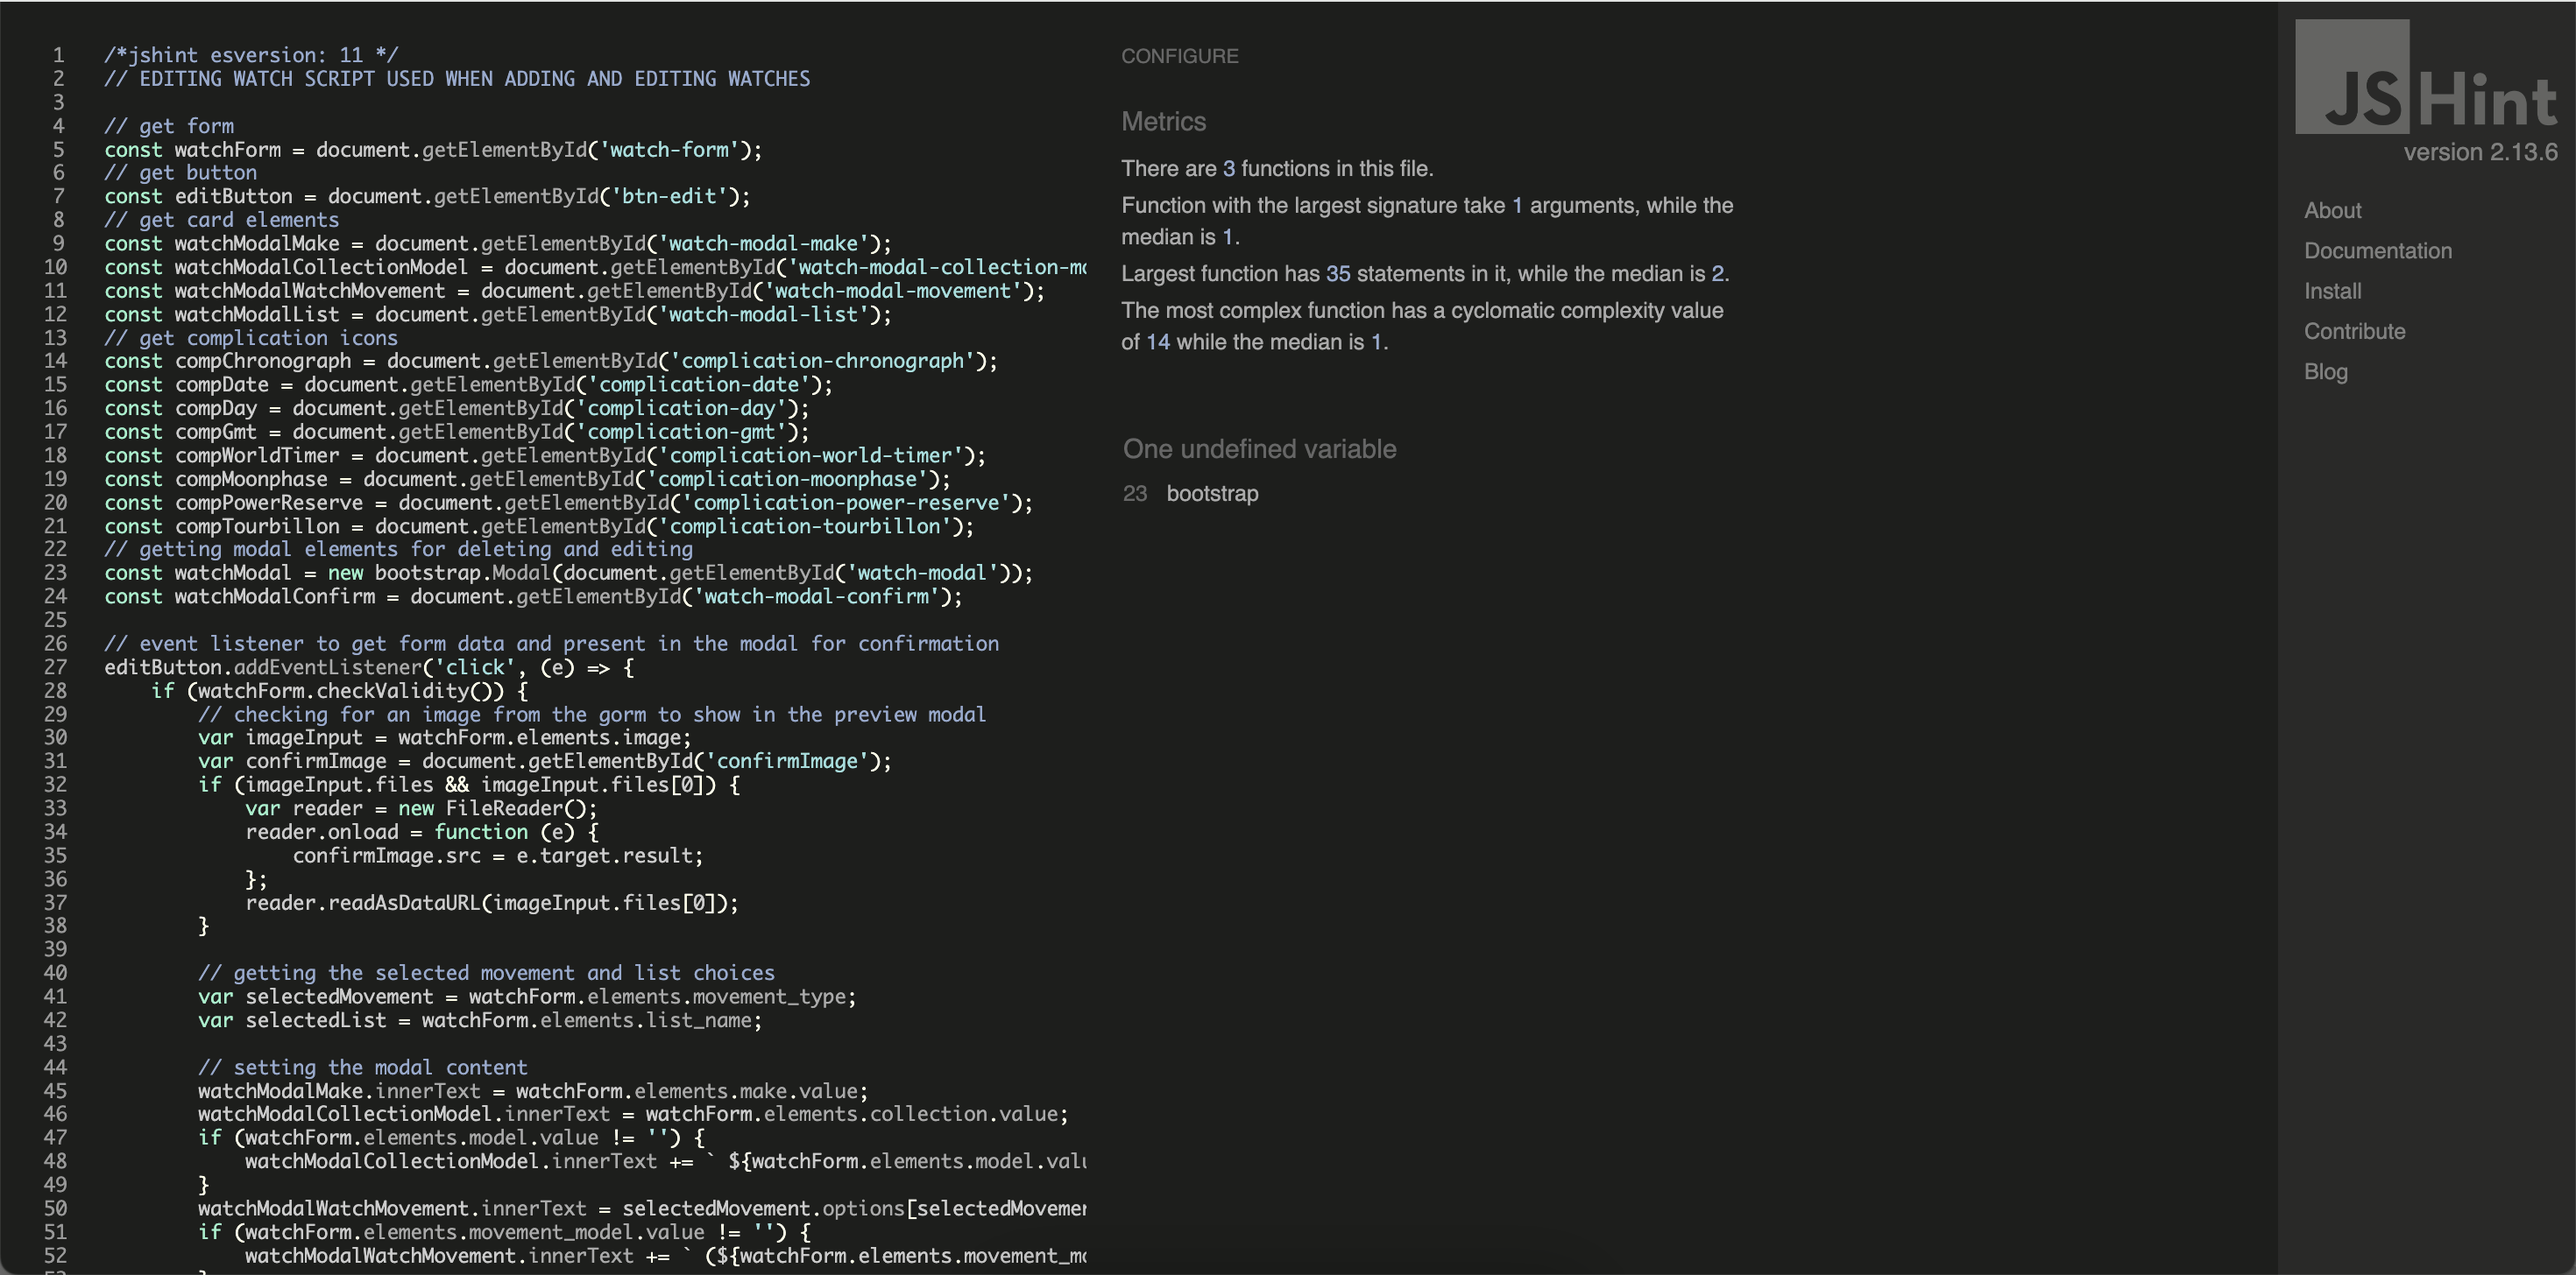
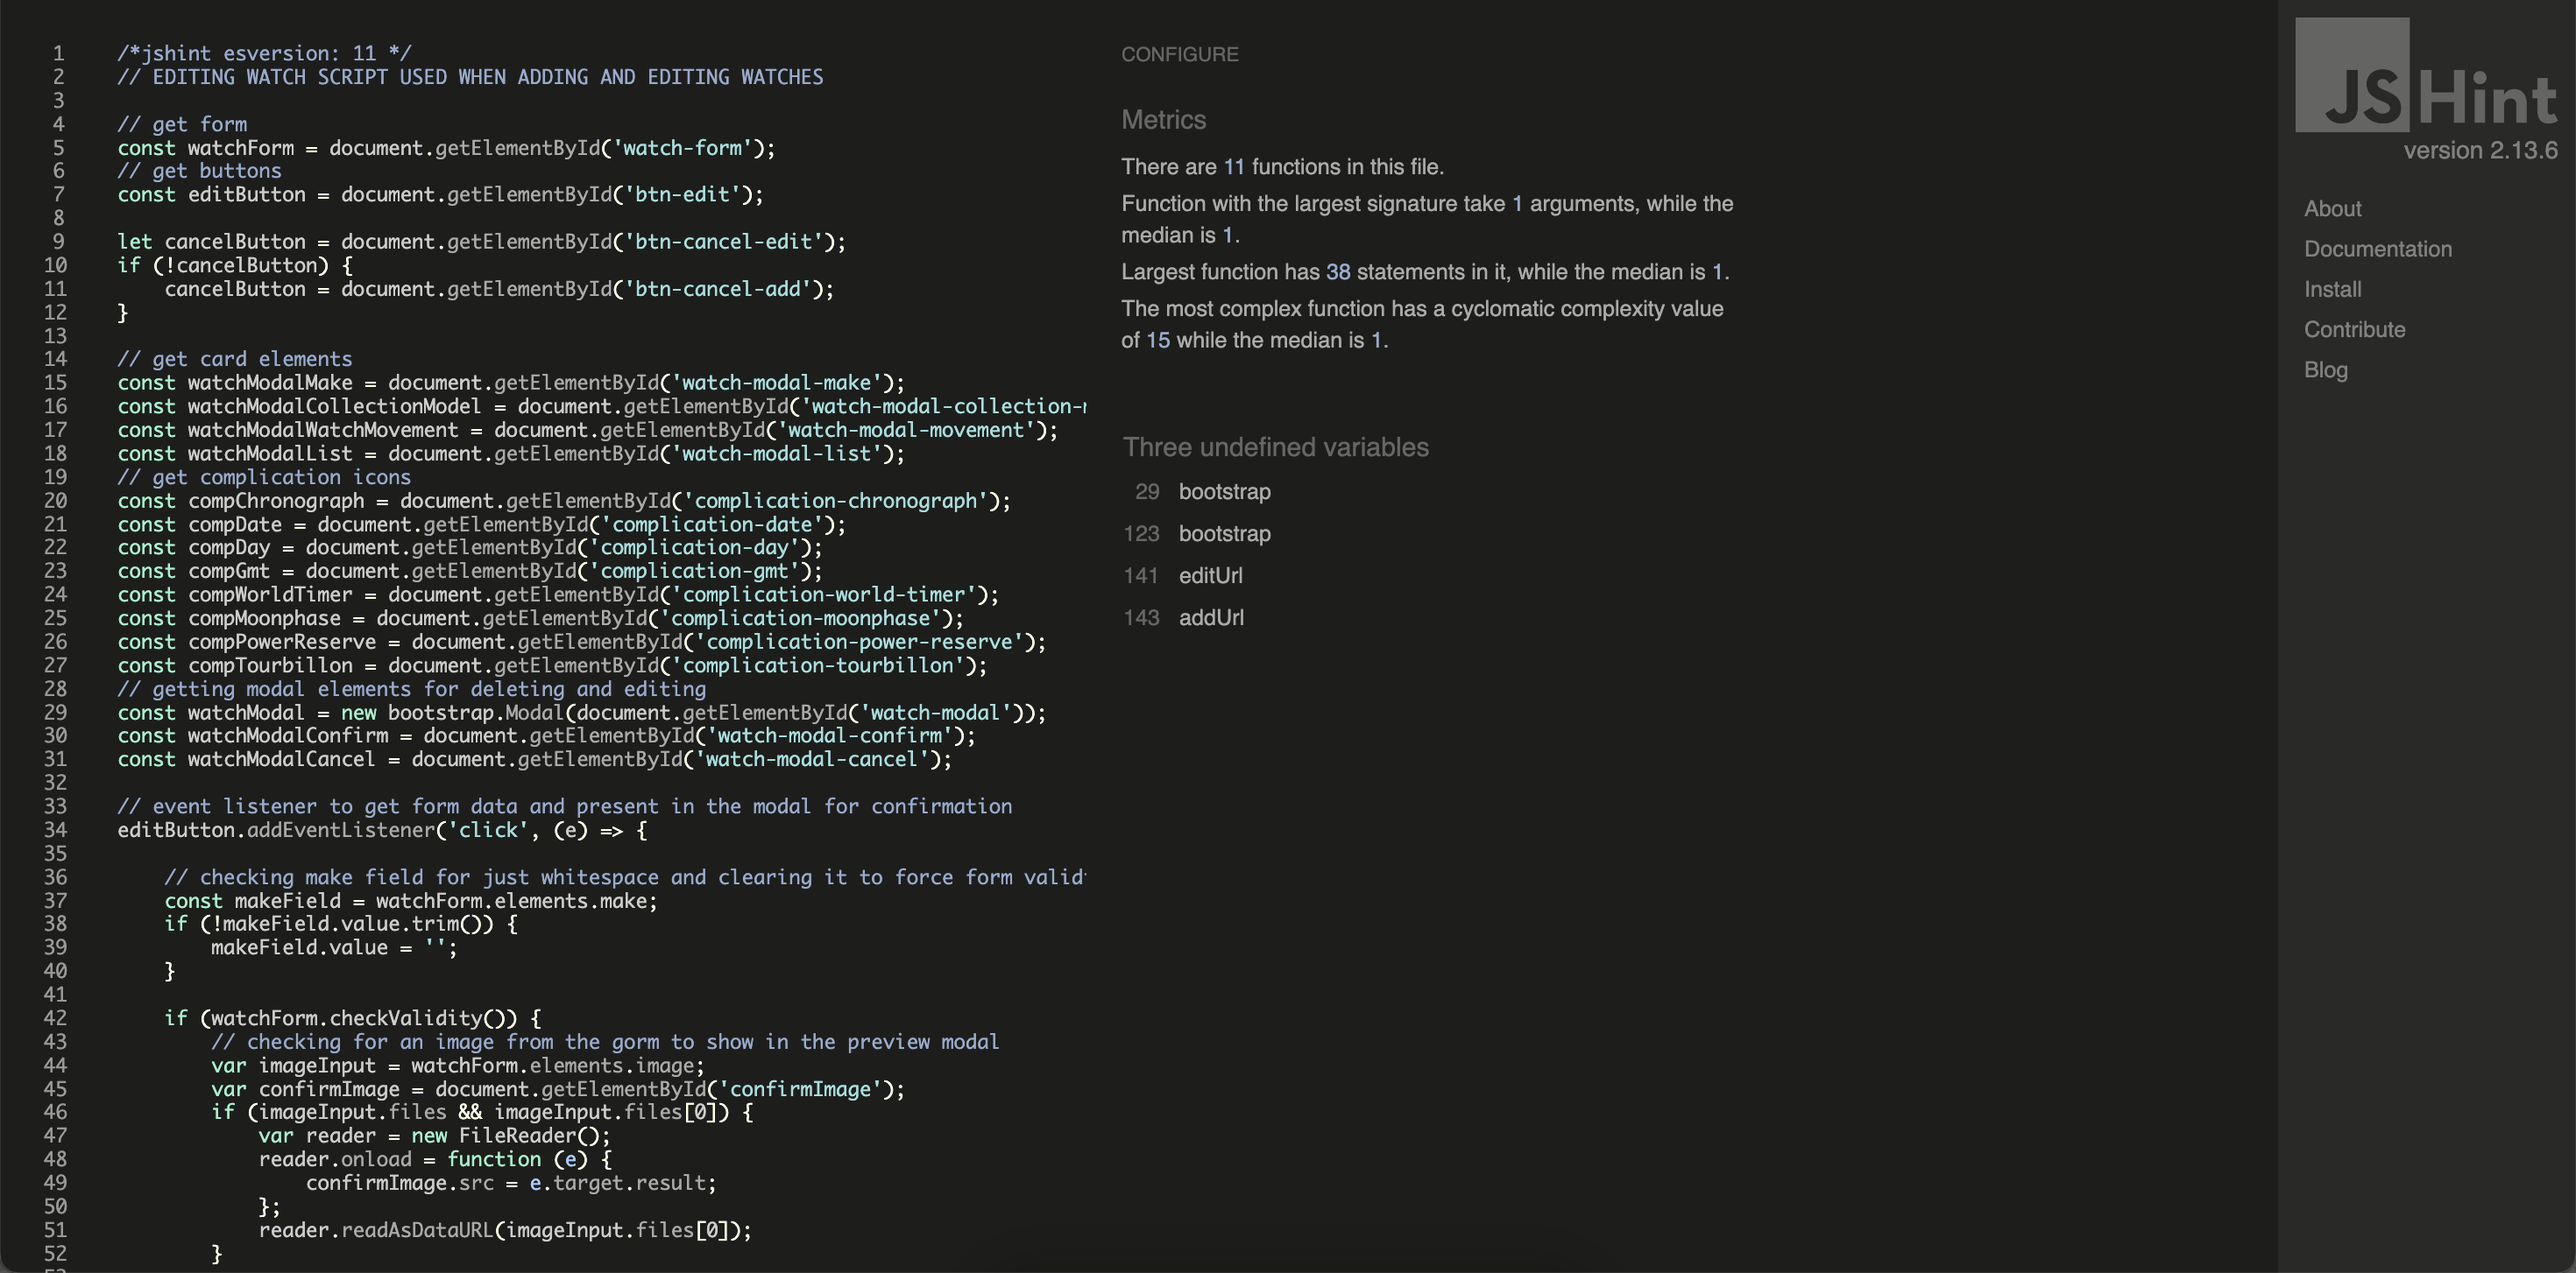
Add js validation update for edit_watch.js

diff --git a/static/script/edit_watch_script.js b/static/script/edit_watch_script.js
@@ -138,9 +138,9 @@ document.getElementById('watch-modal-leave').addEventListener('click', function(
     if (intendedURL) {
         let url;
         if (this.getAttribute('data-mode') === 'edit') {
-            url = editUrl
+            url = editUrl;
         } else if (this.getAttribute('data-mode') === 'add') {
-            url = addUrl
+            url = addUrl;
         }
         
         fetch(url, {

diff --git a/TESTING.md b/TESTING.md
@@ -46,9 +46,10 @@ I have used the recommended [JShint Validator](https://jshint.com) to validate a
 | Directory | File | Screenshot | Notes |
 | --- | --- | --- | --- |
 | static | base_script.js | ![screenshot](documentation/testing/validation/js/wot_testing_js_base_script.png "watch-o-tron js validation base script") | bootstrap varable picked up as undefined and bootstrap variable tooltips marked as unused |
-| static | edit_watch_script.js | ![screenshot](documentation/testing/validation/js/wot_testing_js_edit_watch_script.png "watch-o-tron js validation edit watch script") | bootstrap varable picked up as undefined |
+| static | edit_watch_script.js | ![screenshot](documentation/testing/validation/js/wot_testing_js_edit_watch_script.png "watch-o-tron js validation edit watch script") | bootstrap varable picked up as undefined also editUrl and addUrl which are defined in manage_watch.html |
 | static | staff_settings_script.js | ![screenshot](documentation/testing/validation/js/wot_testing_js_staff_settings_script.png "watch-o-tron js validation staff settings script") | bootstrap varable picked up as undefined |
 | static | watch_script.js | ![screenshot](documentation/testing/validation/js/wot_testing_js_watch_script.png "watch-o-tron js validation watch script") | bootstrap varable picked up as undefined |
+| watches | manage_watch.html | ![screenshot](documentation/testing/validation/js/wot_testing_js_manage_watch_html_script.png "watch-o-tron js validation manage watch script") | picked up editUrl and addUrl as unused variables which are used in edit_watch_script.js |
 
 ### Python
 
